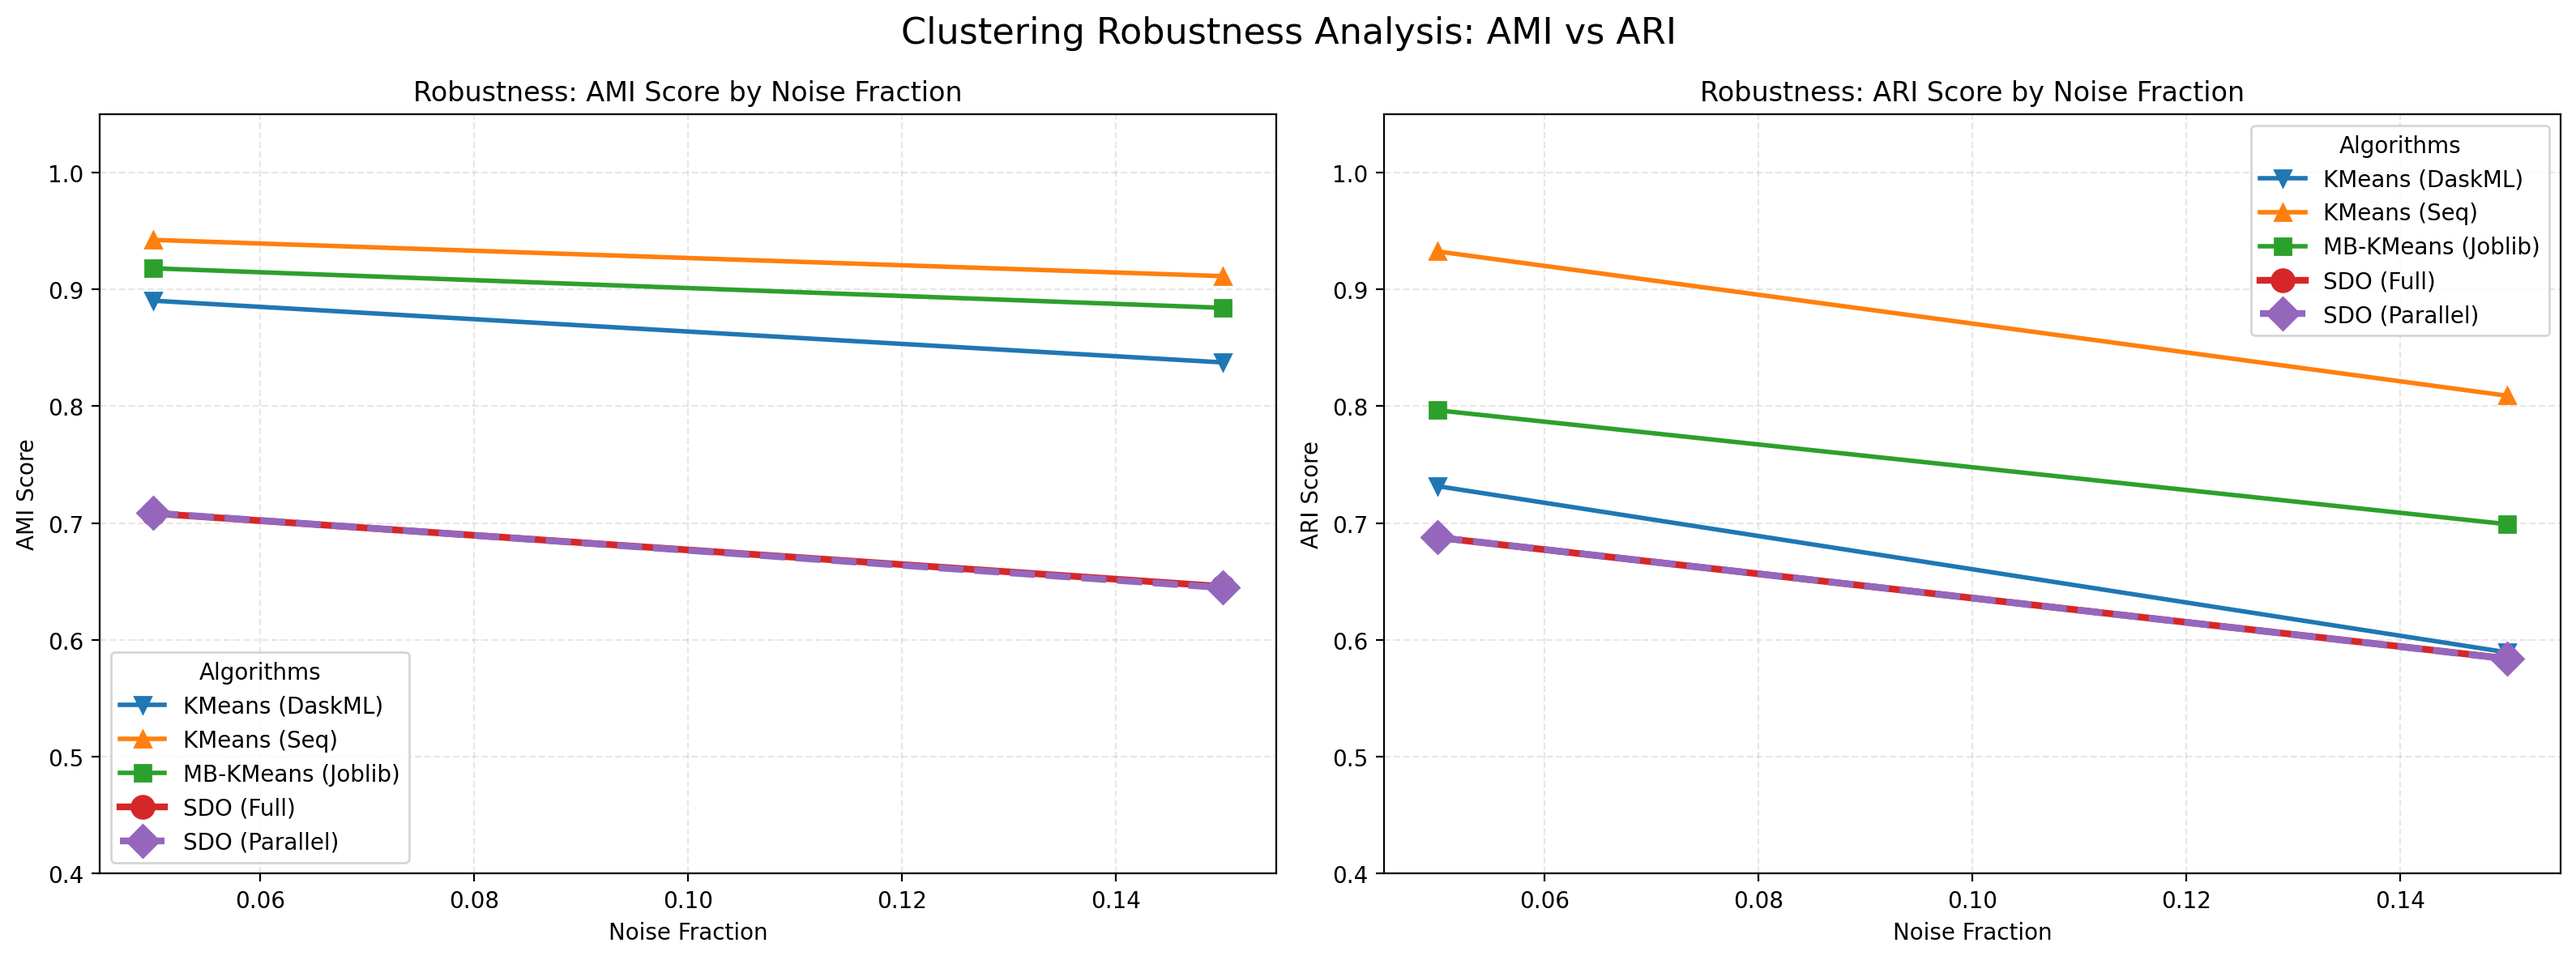
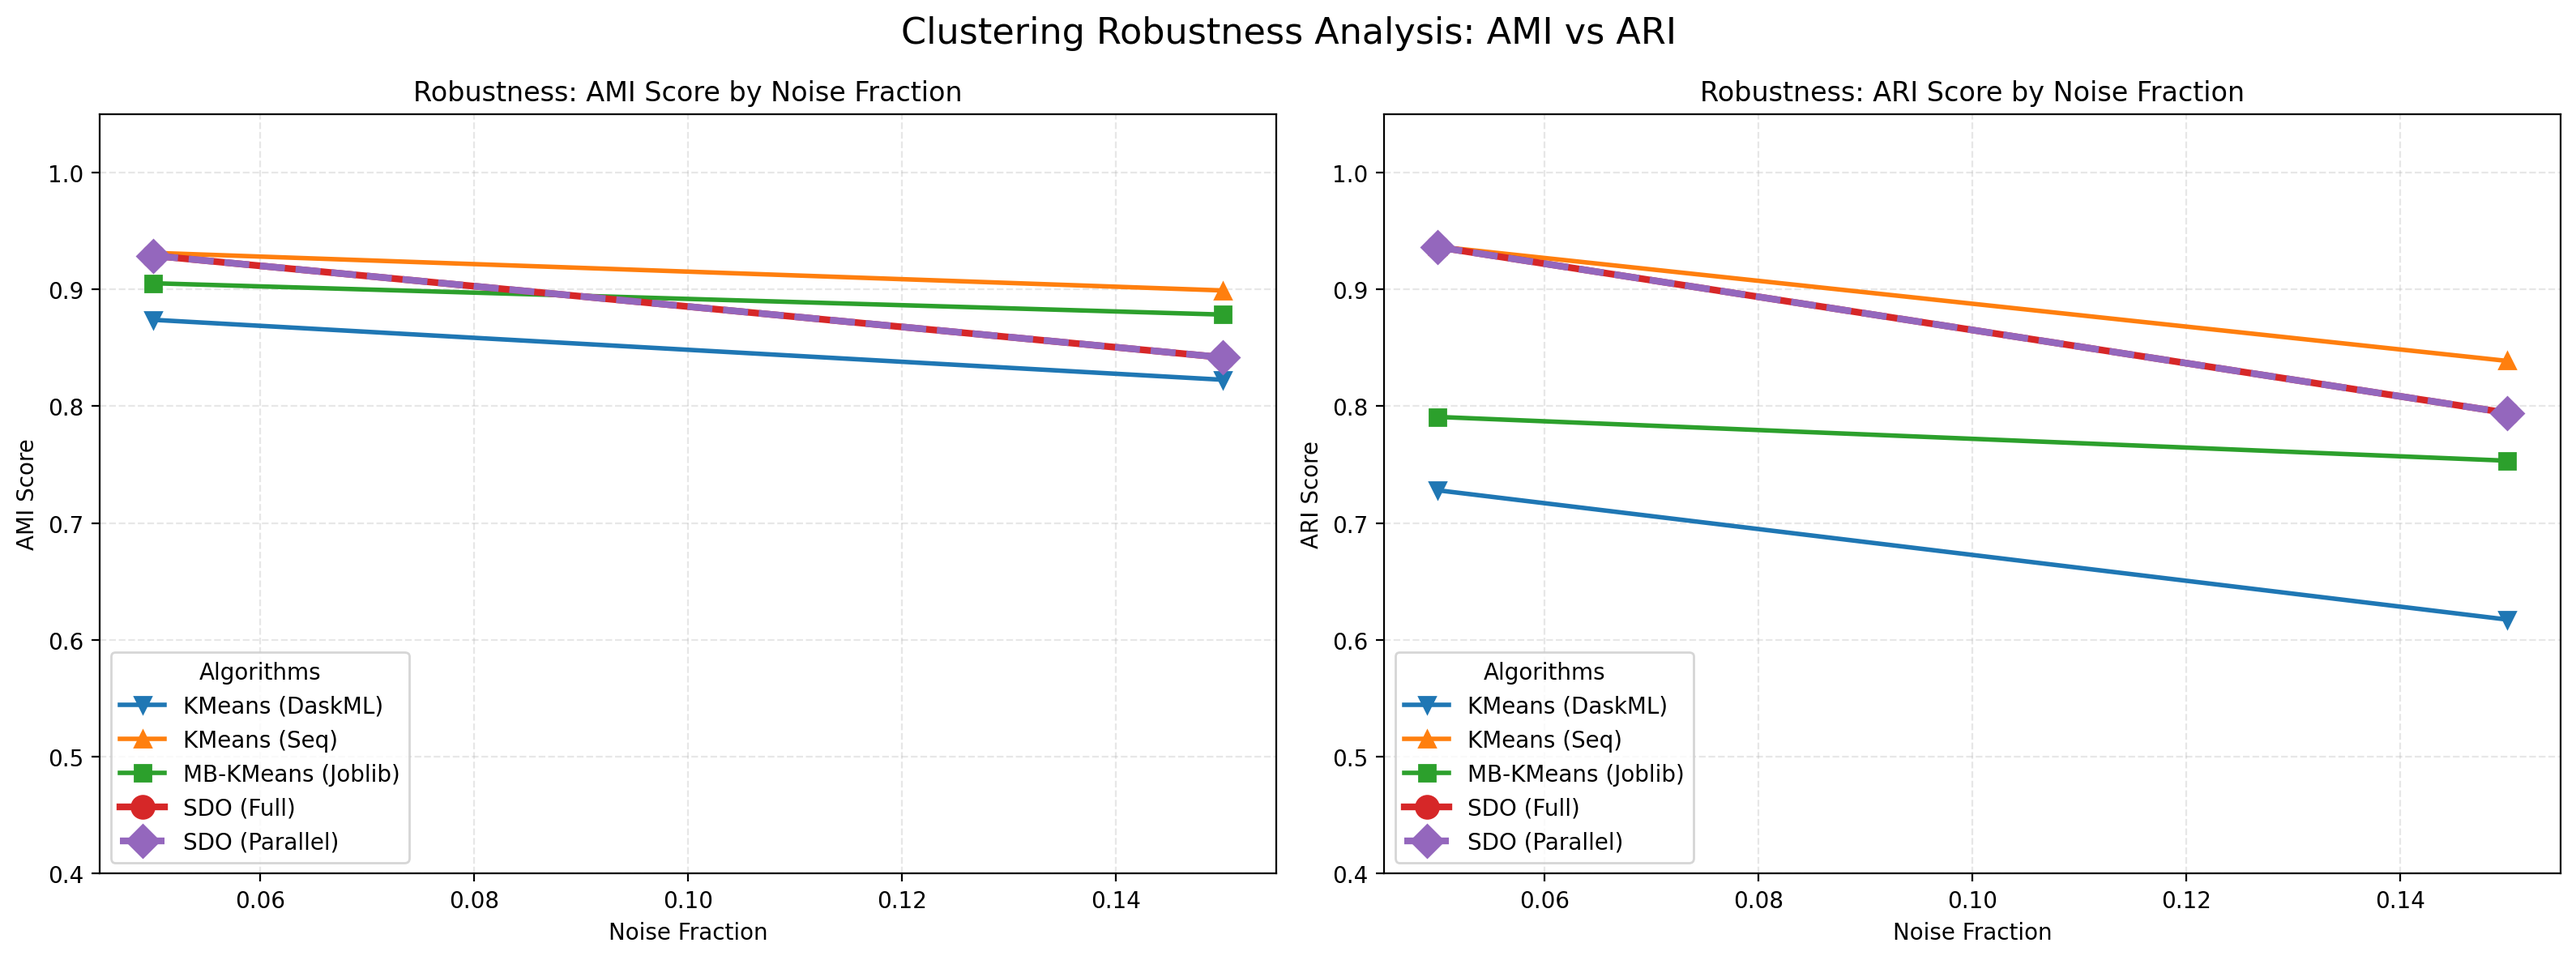
update plots

diff --git a/plot_results.py b/plot_results.py
@@ -368,6 +368,8 @@ def plot_full_robustness_comparison(df, outpath):
     }
 
     sub = df[df["dataset"] == "noisy_blobs"].copy()
+    if "N" in sub.columns:
+        sub = sub[sub["centers"] != 50]
     sub = sub[sub["method"].isin(methods_map.keys())]
     sub["method_label"] = sub["method"].map(methods_map)
 
